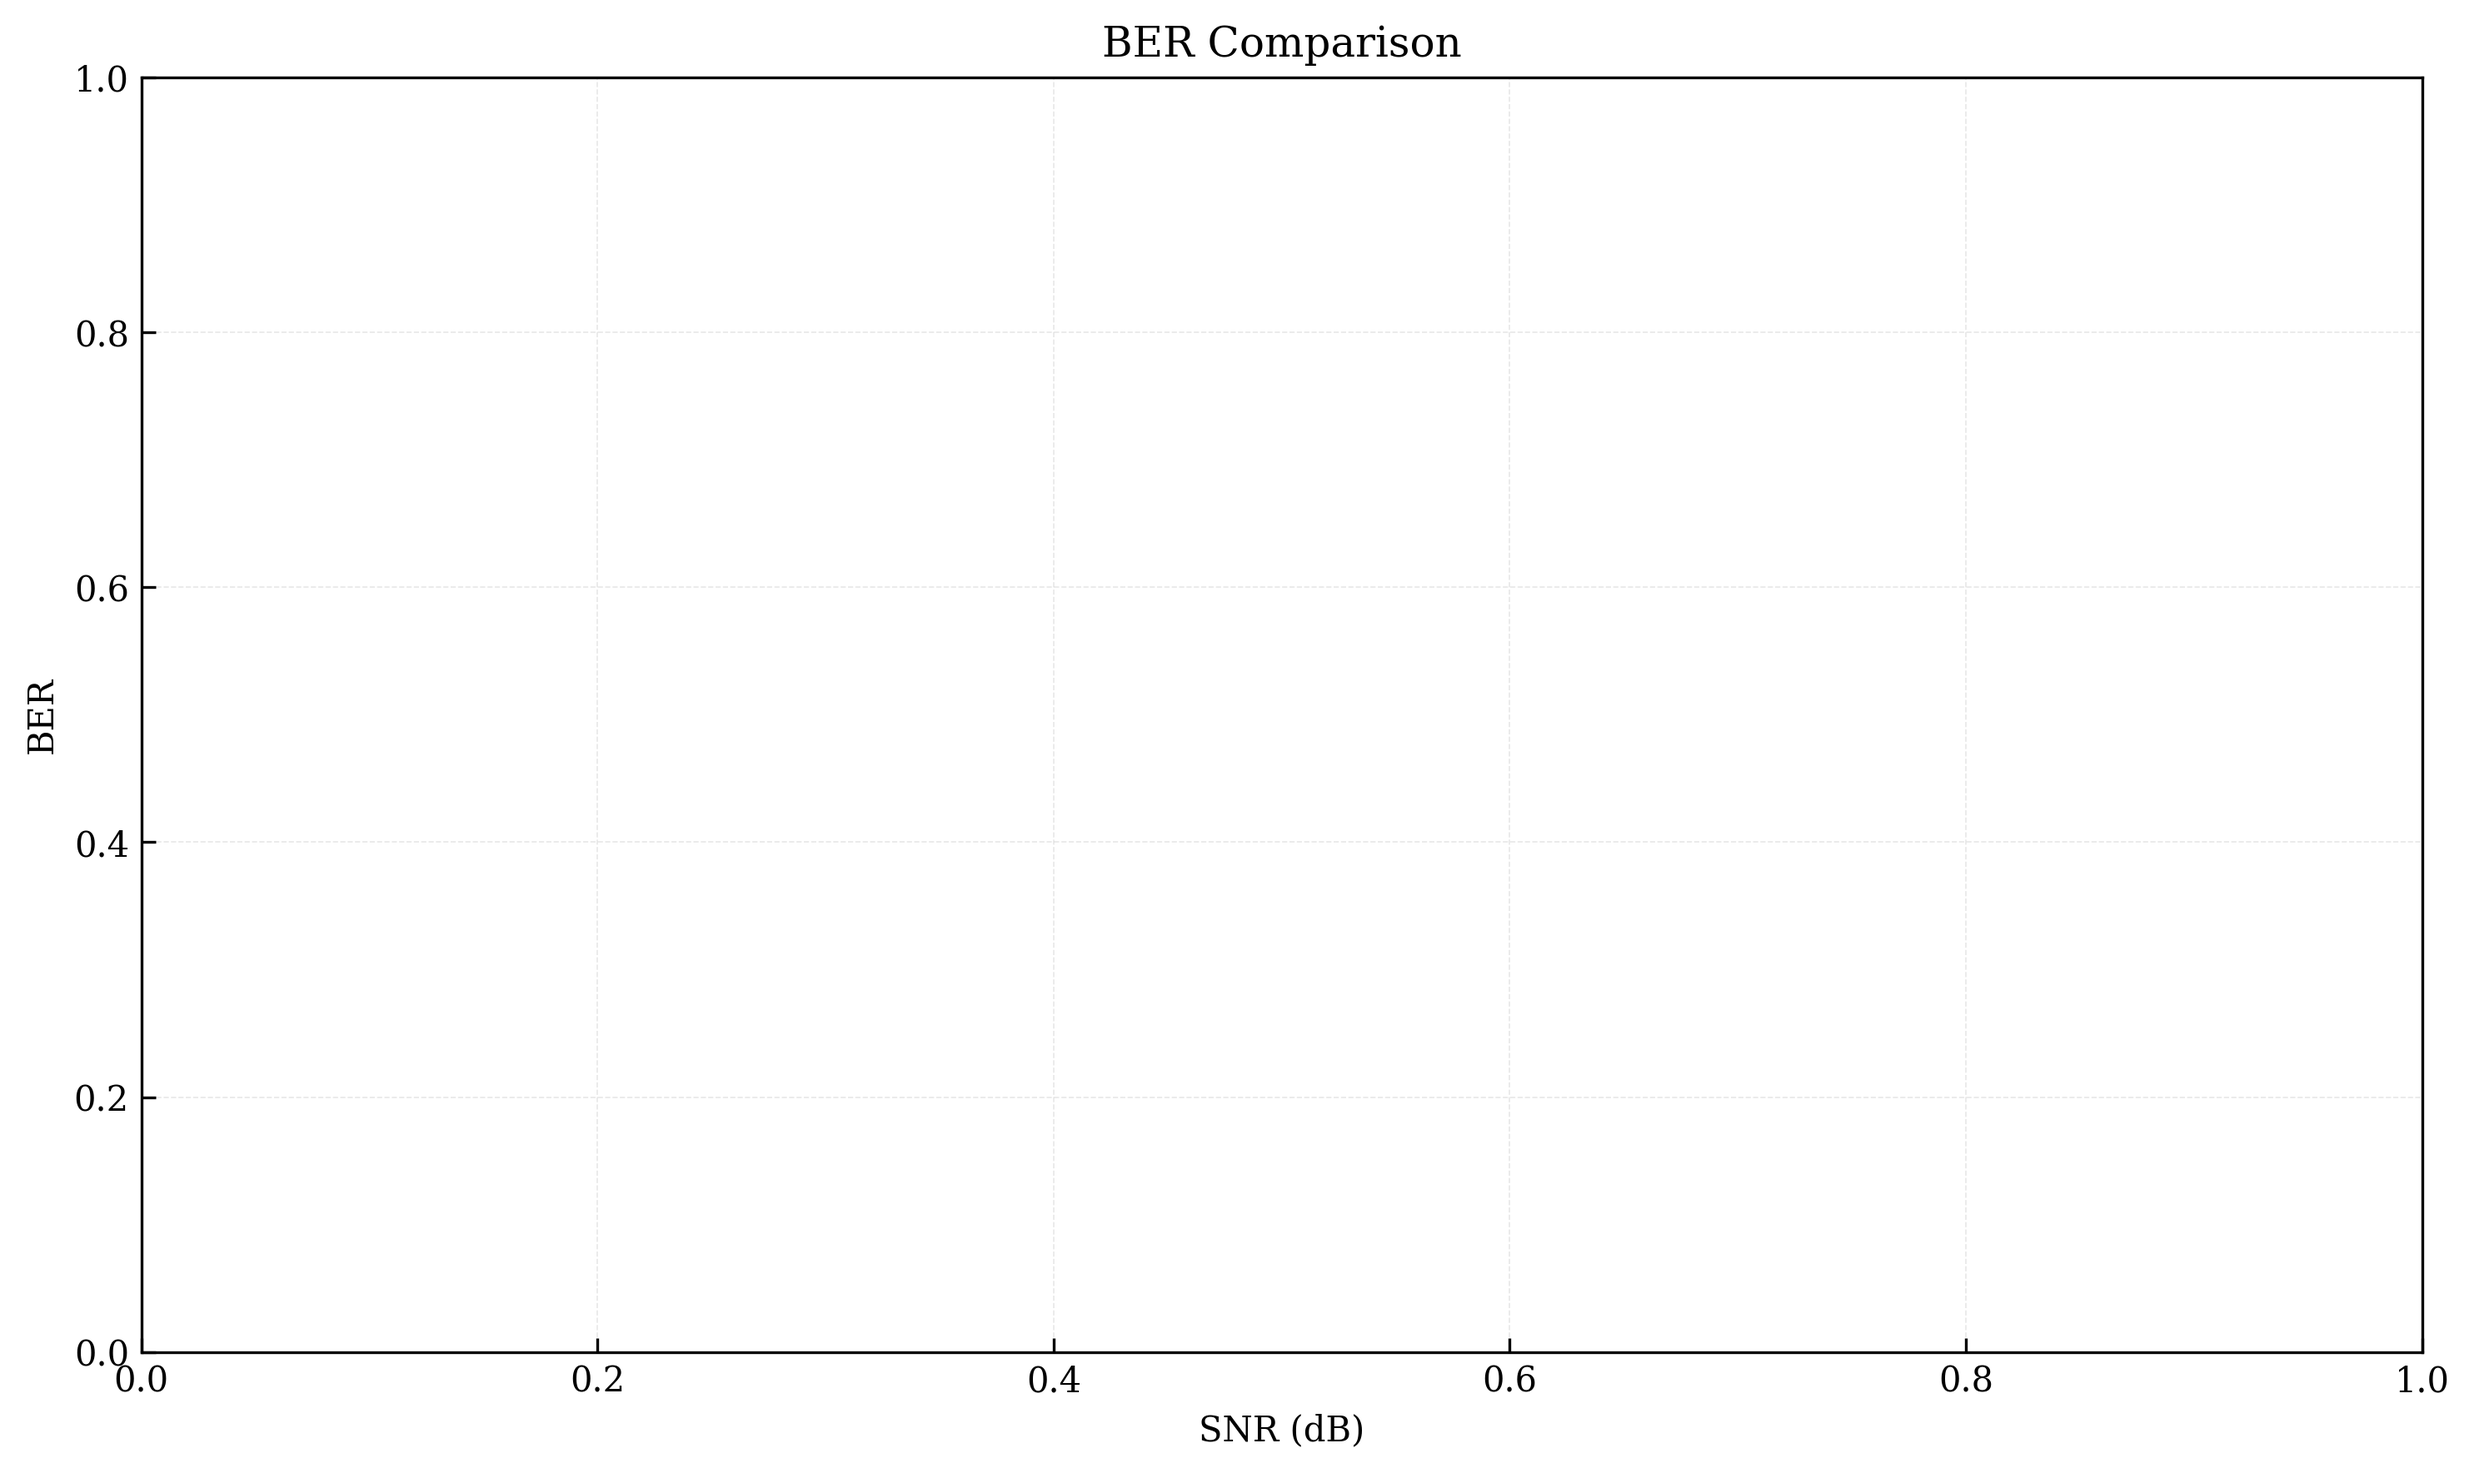
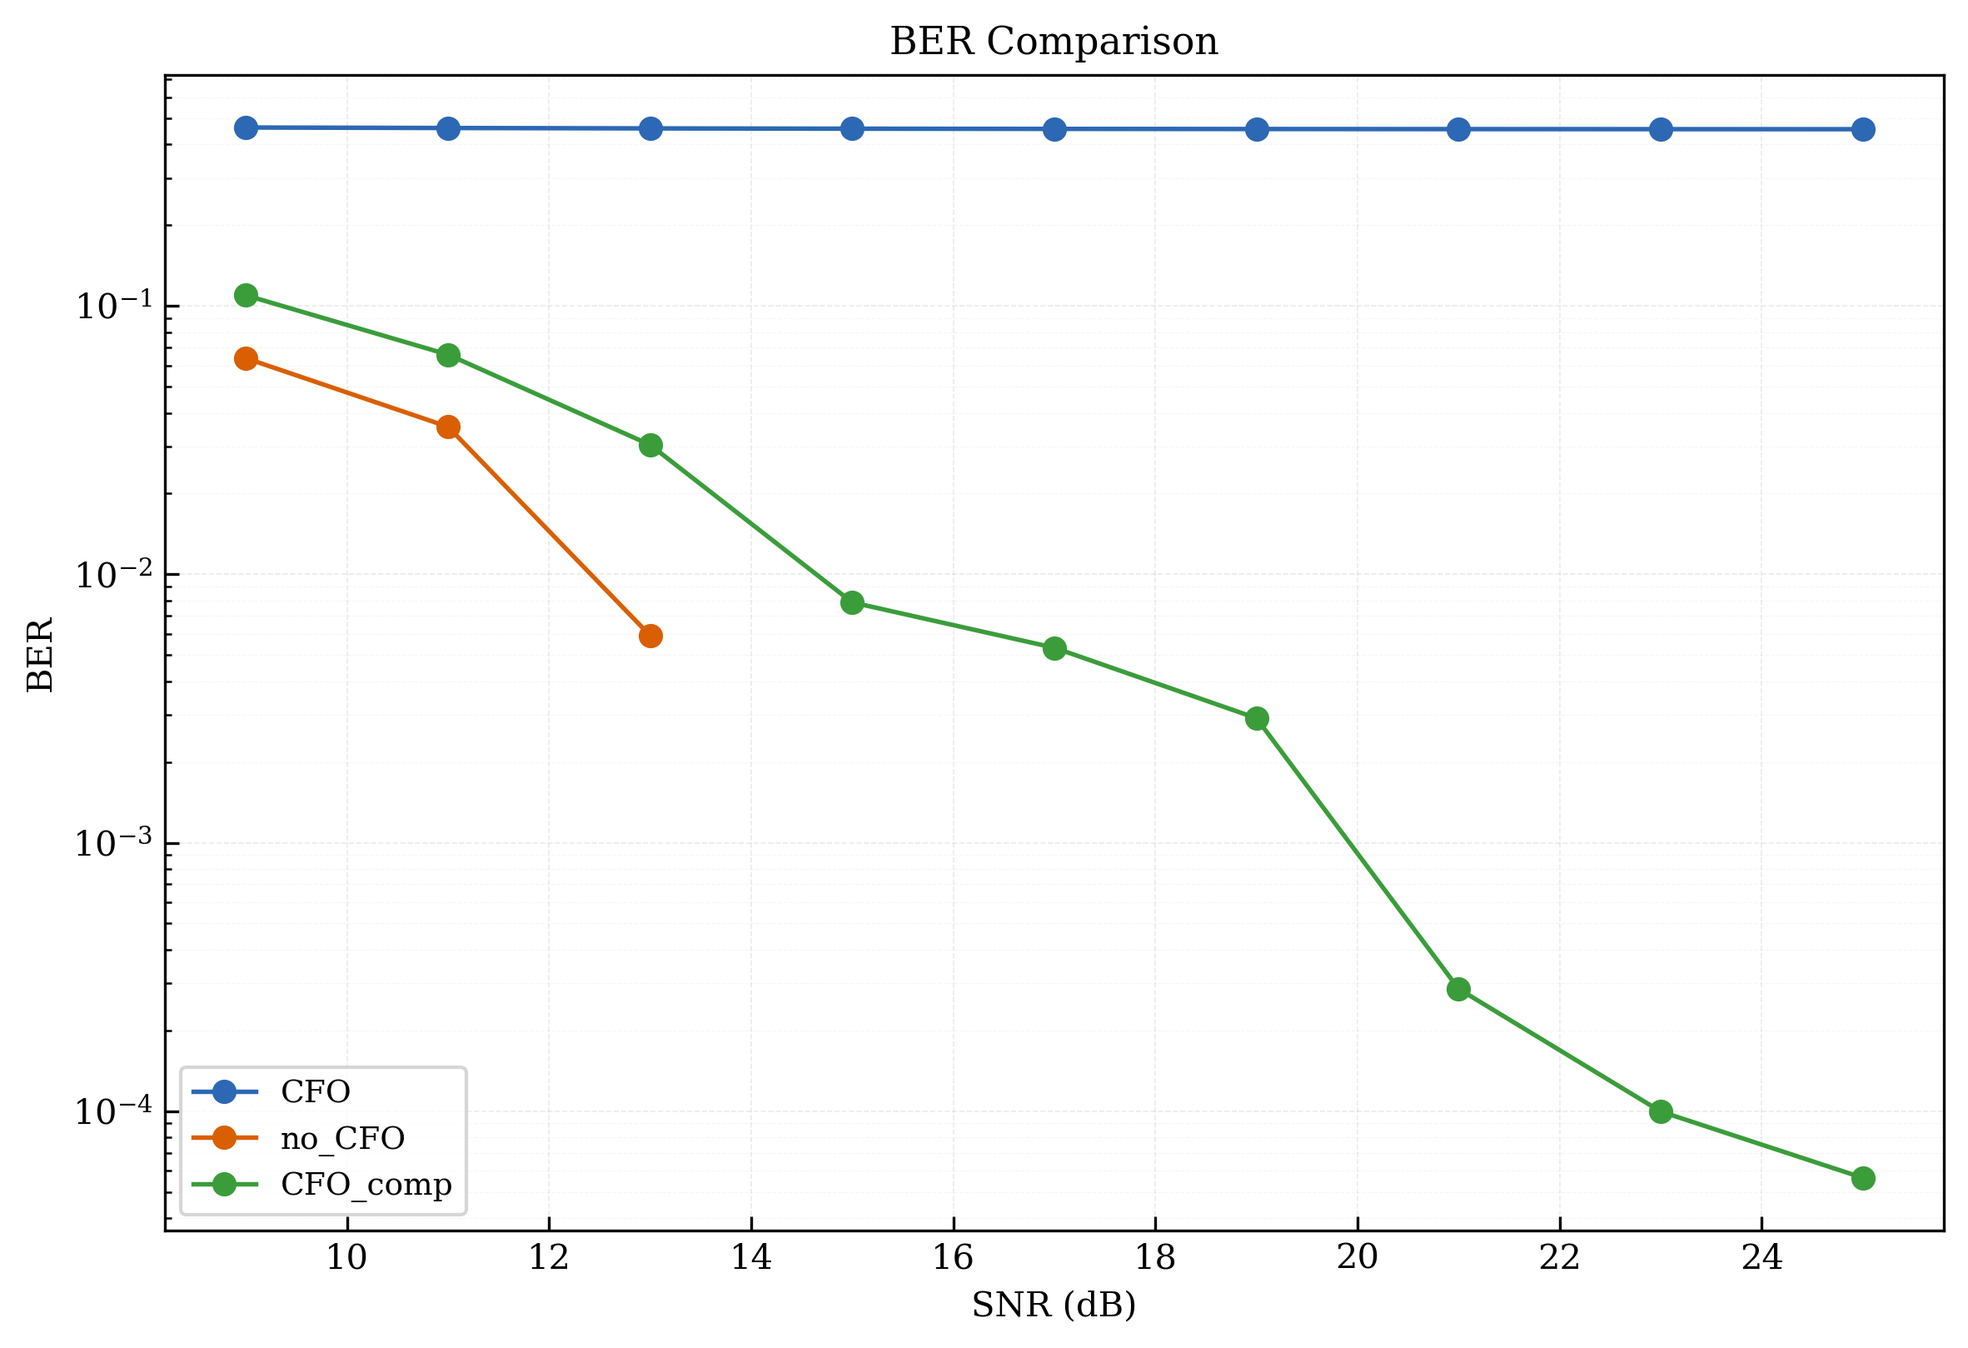
修复LDPC(1440,1056) 11/15码率编码问题

diff --git a/utils/LDPCMatrix.py b/utils/LDPCMatrix.py
@@ -43,7 +43,7 @@ _IEEE802153D_1440_TABLES = {
             (31, 234, 150),
             (159, 364, 91),
             (302, 45, 286),
-            (126, 239, 71),
+            (126, 239, 371),
             (17, 158, 272),
             (28, 336, 178),
             (214, 60, 369),
@@ -88,15 +88,14 @@ def ieee802153d_rate11_direction_note(direction: str) -> str:
     direction = normalize_ieee802153d_rate11_direction(direction)
     if direction == RATE11_MINUS_LITERAL:
         return (
-            "minus_literal follows the literal Equation 13-1 derivation "
-            "i = 96*g + ((r0 - s) % 96); H[:,1056:1440] has rank 383, "
-            "so standard c=[i,p] systematic encoding is not available."
+            "minus_literal follows the IEEE 802.15.3d Equation 13-1 derivation "
+            "i = 96*g + ((r0 - s) % 96); H[:,1056:1440] is full rank "
+            "and supports c=[i,p] systematic encoding."
         )
     return (
         "plus_systematic_candidate uses i = 96*g + ((r0 + s) % 96); "
-        "H[:,1056:1440] is full rank and supports c=[i,p] systematic "
-        "encoding. This is a candidate mode pending advisor or IEEE errata "
-        "confirmation, not a confirmed standard correction."
+        "it is retained only for backward compatibility and is not the "
+        "Equation 13-1 construction used by the standard mode."
     )
 
 
@@ -107,8 +106,8 @@ def ieee802153d_standard_confirmation_status(rate: str, rate11_direction: str | 
 
     direction = normalize_ieee802153d_rate11_direction(rate11_direction)
     if direction == RATE11_MINUS_LITERAL:
-        return "minus_literal_equation_conflicts_with_systematic_encoding"
-    return "plus_systematic_candidate_pending_advisor_or_ieee_errata_confirmation"
+        return "standard_systematic_encoding_confirmed_by_rank_checks"
+    return "nonstandard_plus_direction_retained_for_backward_compatibility"
 
 
 def ieee802153d_1440_dimensions(rate: str) -> tuple[int, int, int]:
@@ -130,11 +129,9 @@ def build_ieee802153d_1440_h(
     The entries are generated from Table 12-17 + Equation 12-6 for rate 14/15,
     and Table 13-10 + Equation 13-1 for rate 11/15.
 
-    For rate 11/15, Table 13-10 has been manually checked. The
-    minus_literal direction follows Equation 13-1 literally, but conflicts
-    with standard c=[i,p] systematic encodability because Hp rank is 383.
-    plus_systematic_candidate gives full-rank Hp and is kept as an explicit
-    candidate mode pending advisor or IEEE errata confirmation.
+    For rate 11/15, minus_literal follows Equation 13-1 and supports standard
+    c=[i,p] systematic encoding. plus_systematic_candidate is retained only
+    for backward compatibility with earlier experiments.
     """
     rate = normalize_ieee802153d_rate(rate)
     if rate == "11/15":

diff --git a/utils/test_ldpc.py b/utils/test_ldpc.py
@@ -1,0 +1,68 @@
+import numpy as np
+
+from params.PHYParams import PHYParams
+from transmitter.DataProcesser import BitStreamProcessor
+from transmitter.Encoder import Encoder
+from utils.Coder import LDPCCoder
+from utils.LDPCMatrix import (
+    build_ieee802153d_1440_h,
+    gf2_rank,
+)
+
+
+def _rate11_params():
+    params = PHYParams()
+    params.update(
+        code_type="LDPC",
+        ldpc_matrix_type="ieee802153d_1440",
+        ldpc_standard_rate="11/15",
+        ldpc_rate11_direction="minus_literal",
+    )
+    return params
+
+
+def test_ieee802153d_rate11_matrix_and_parity_part_are_full_rank():
+    h = build_ieee802153d_1440_h("11/15", "minus_literal")
+
+    assert h.shape == (384, 1440)
+    assert int(np.sum(h)) == 4320
+    assert np.all(np.sum(h, axis=0) == 3)
+    assert gf2_rank(h) == 384
+    assert gf2_rank(h[:, 1056:1440]) == 384
+
+
+def test_ieee802153d_rate11_systematic_encode_and_noiseless_decode():
+    coder = LDPCCoder(_rate11_params())
+    rng = np.random.default_rng(1530)
+    info = rng.integers(0, 2, size=coder.k, dtype=np.uint8)
+
+    codeword = coder.encode(info)
+    decoded, debug = coder.decode(np.where(codeword == 0, 12.0, -12.0), original_bit_len=len(info))
+
+    assert np.array_equal(codeword[:coder.k], info)
+    assert np.all(coder.syndrome(codeword) == 0)
+    assert np.array_equal(decoded, info)
+    assert debug["decode_success"]
+
+
+def test_rate11_wrappers_use_configured_ldpc_dimensions():
+    params = _rate11_params()
+    processor = BitStreamProcessor(params)
+    encoder = Encoder(params)
+
+    assert processor.code_rate == 11 / 15
+    assert (encoder.packet_size, encoder.nsym, encoder.encoded_packet_size) == (1056, 384, 1440)
+
+    info = np.zeros(1056, dtype=np.uint8)
+    encoded = encoder.encode({
+        "signal_stream": info,
+        "sample_rate_Hz": 1056,
+        "duration_seconds": 1.0,
+        "signal_length": 1056,
+        "padding_bit_num": 0,
+        "frame_bit_num": 1056,
+        "frame_num": 1,
+    })
+
+    assert encoded["signal_length"] == 1440
+    assert len(encoded["signal_stream"]) == 1440

diff --git a/utils/Coder.py b/utils/Coder.py
@@ -1,5 +1,6 @@
+from __future__ import annotations
+
 import numpy as np
-import galois
 from typing import List, Optional, Tuple
 from itertools import product
 from utils.LDPCMatrix import (
@@ -20,6 +21,11 @@ class RSCoder:
     已修复编码长度不匹配问题，严格保证输出比特长度正确
     """
     def __init__(self, params):
+        # galois is required only by RS coding. Keep the import local so LDPC
+        # users do not need to import or install the unrelated RS dependency.
+        global galois
+        import galois
+
         self.params = params
         self.nsym = params.get("rs_nsym")
         self.c_exp = params.get("rs_c_exp")
@@ -355,9 +361,9 @@ class LDPCCoder:
 
     IEEE 802.15.3d mode uses the standard THz-SC mandatory LDPC(1440,1344)
     or LDPC(1440,1056) H matrix and solves parity bits over GF(2).
-    For 11/15, minus_literal follows Equation 13-1 literally but is not
-    encodable as c=[i,p]; plus_systematic_candidate is explicitly marked as
-    a pending-confirmation candidate, not a confirmed IEEE correction.
+    For 11/15, minus_literal follows Equation 13-1 and supports systematic
+    c=[i,p] encoding. plus_systematic_candidate is retained only for backward
+    compatibility with earlier experiments.
     """
 
     def __init__(self, params):

diff --git a/transmitter/DataProcesser.py b/transmitter/DataProcesser.py
@@ -2,6 +2,7 @@ import os
 import random
 import numpy as np
 from params.PHYParams import PHYParams
+from utils.LDPCMatrix import ieee802153d_1440_dimensions
 
 class BitStreamProcessor:
     """
@@ -21,7 +22,17 @@ class BitStreamProcessor:
         if self.code_type == "RS":
             self.code_rate = self.params.get("rs_packet_size") / (self.params.get("rs_packet_size") + self.params.get("rs_nsym"))  # RS编码包大小
         elif self.code_type == "LDPC":
-            self.code_rate = 14 / 15  # LDPC编码率(目前固定为14/15)
+            matrix_type = self.params.get("ldpc_matrix_type", "engineering")
+            if matrix_type == "ieee802153d_1440":
+                n, k, _ = ieee802153d_1440_dimensions(
+                    self.params.get("ldpc_standard_rate", "14/15")
+                )
+            elif matrix_type == "engineering":
+                n = int(self.params.get("ldpc_n"))
+                k = int(self.params.get("ldpc_k"))
+            else:
+                raise ValueError("ldpc_matrix_type must be 'engineering' or 'ieee802153d_1440'")
+            self.code_rate = k / n
         link_mode = (self.params.get("link_mode")).lower()
         if link_mode == "ofdm":
             n_pilots = len(self.params.get("pilot_block_indexes"))

diff --git a/params/PHYParams.py b/params/PHYParams.py
@@ -112,7 +112,7 @@ class PHYParams(BaseParams):
             "ldpc_k": 336,                                                                          # Engineering LDPC information length
             "ldpc_matrix_type": "ieee802153d_1440",                                                 # engineering / ieee802153d_1440
             "ldpc_standard_rate": "14/15",                                                          # IEEE 802.15.3d LDPC rate: 14/15 / 11/15
-            "ldpc_rate11_direction": "minus_literal",                                               # 11/15: minus_literal follows Eq. 13-1 but cannot encode c=[i,p]; plus_systematic_candidate is pending confirmation
+            "ldpc_rate11_direction": "minus_literal",                                               # 11/15: IEEE Equation 13-1 direction; plus_systematic_candidate is legacy compatibility only
             "ldpc_max_iter": 30,                                                                    # LDPC min-sum max iterations
             "ldpc_col_weight": 3,                                                                   # LDPC sparse A row weight
             "ldpc_dv": 3,                                                                           # Legacy alias for ldpc_col_weight

diff --git a/transmitter/Encoder.py b/transmitter/Encoder.py
@@ -21,10 +21,10 @@ class Encoder:
             self.encoded_packet_size = self.packet_size + self.nsym
         elif self.code_type == "LDPC":
             self.encoder = LDPCCoder(self.params)
-            self.nsym = 96                  # parity bits per codeword
-            self.packet_size = 1344         # info bits per codeword
-            self.efficiency = 1344 / (1344 + 96)
-            self.encoded_packet_size = 1440
+            self.nsym = self.encoder.r          # parity bits per codeword
+            self.packet_size = self.encoder.k   # info bits per codeword
+            self.efficiency = self.encoder.efficiency
+            self.encoded_packet_size = self.encoder.n
         
         # 输出参数      
         self.sample_rate = None  # 采样率
